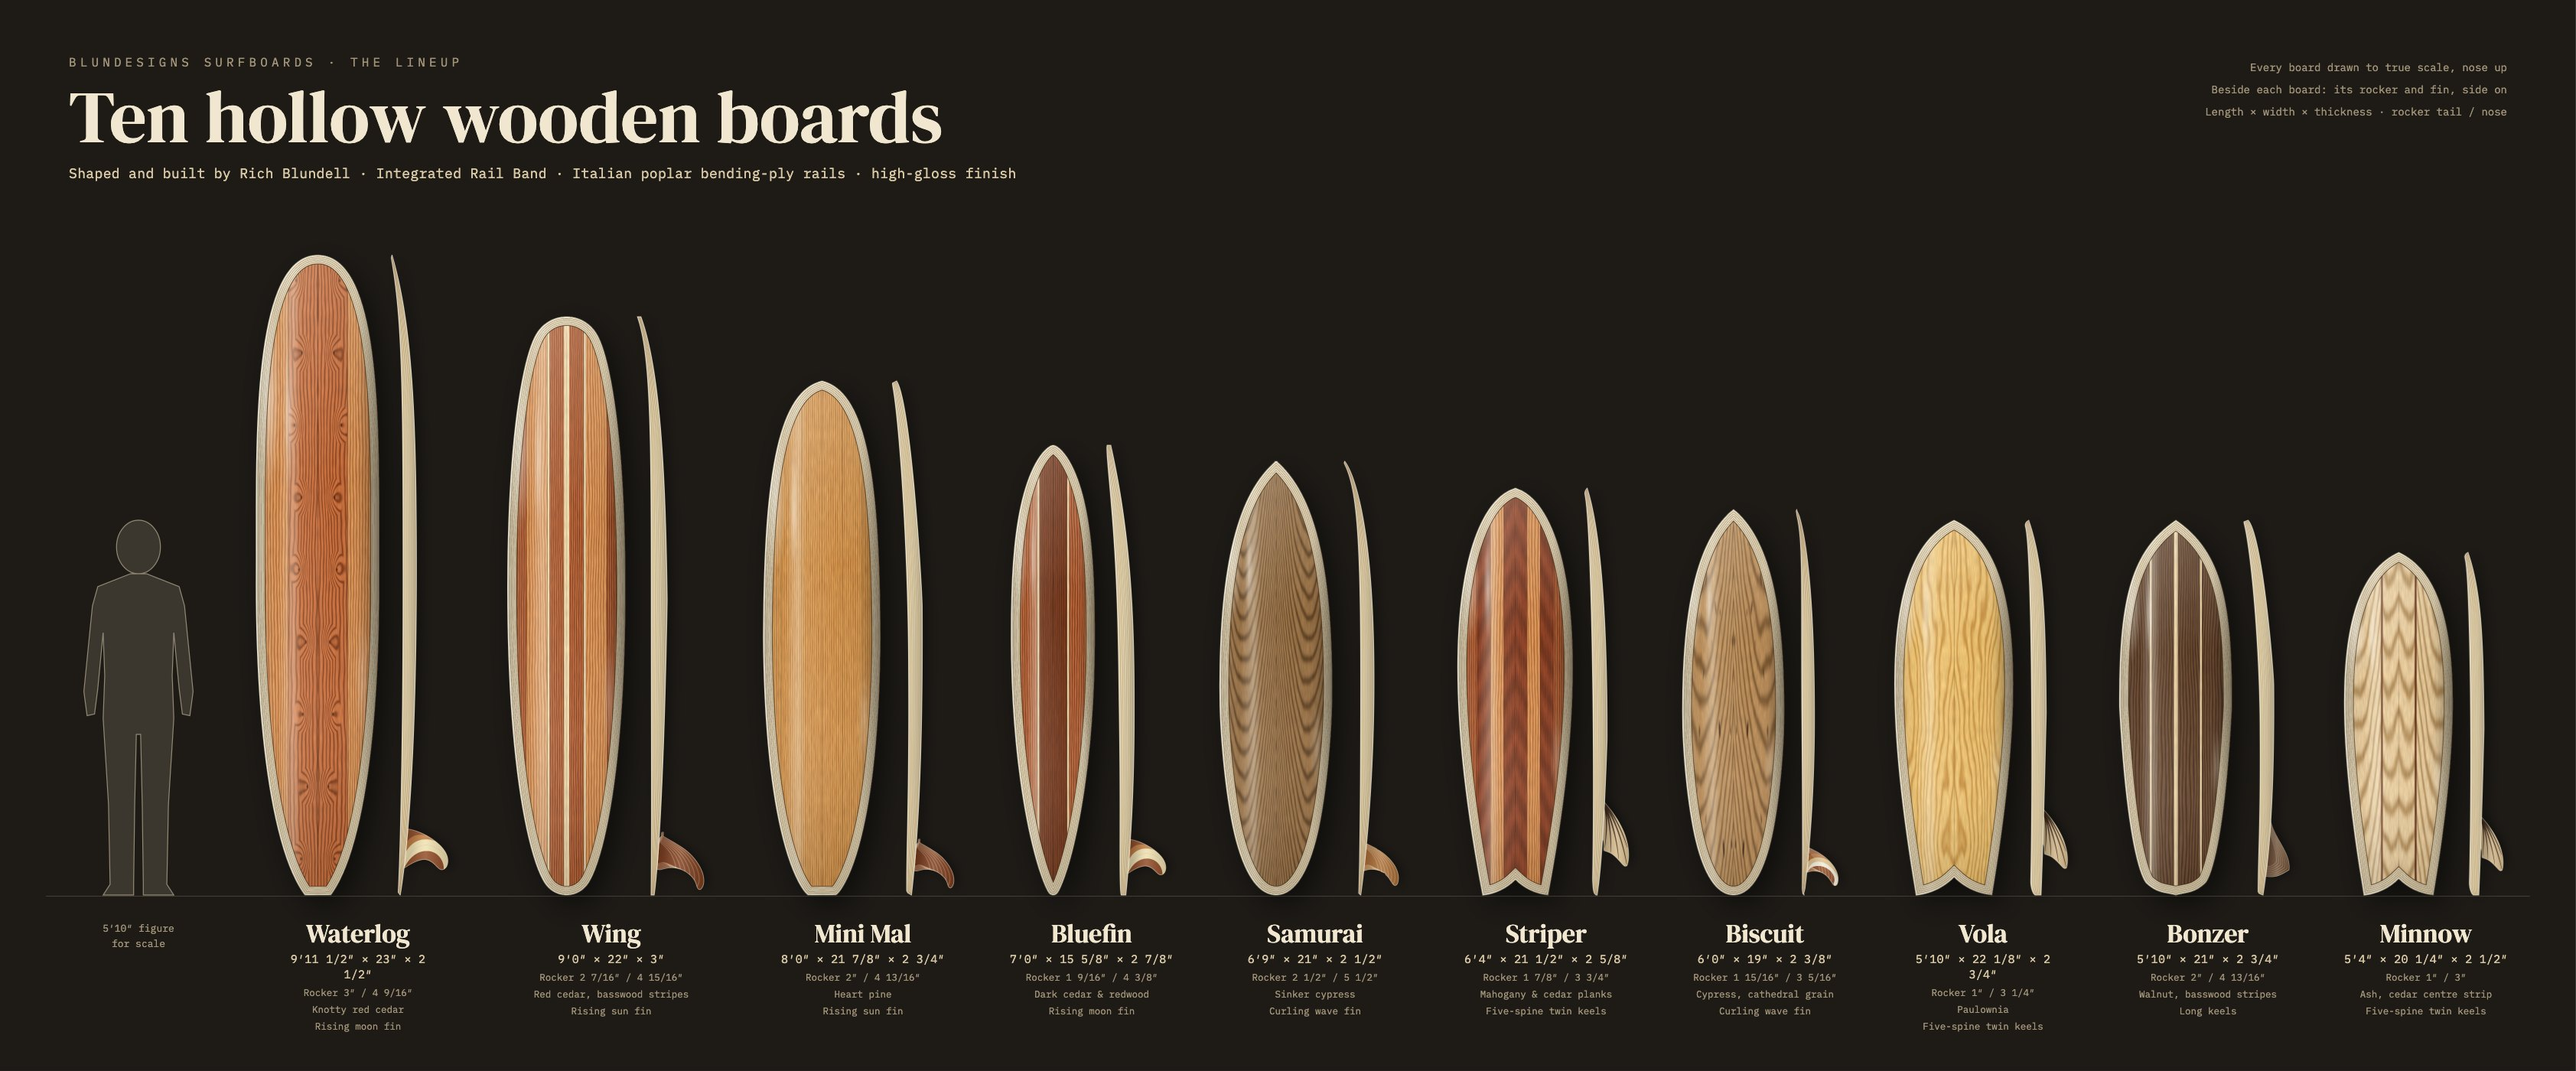
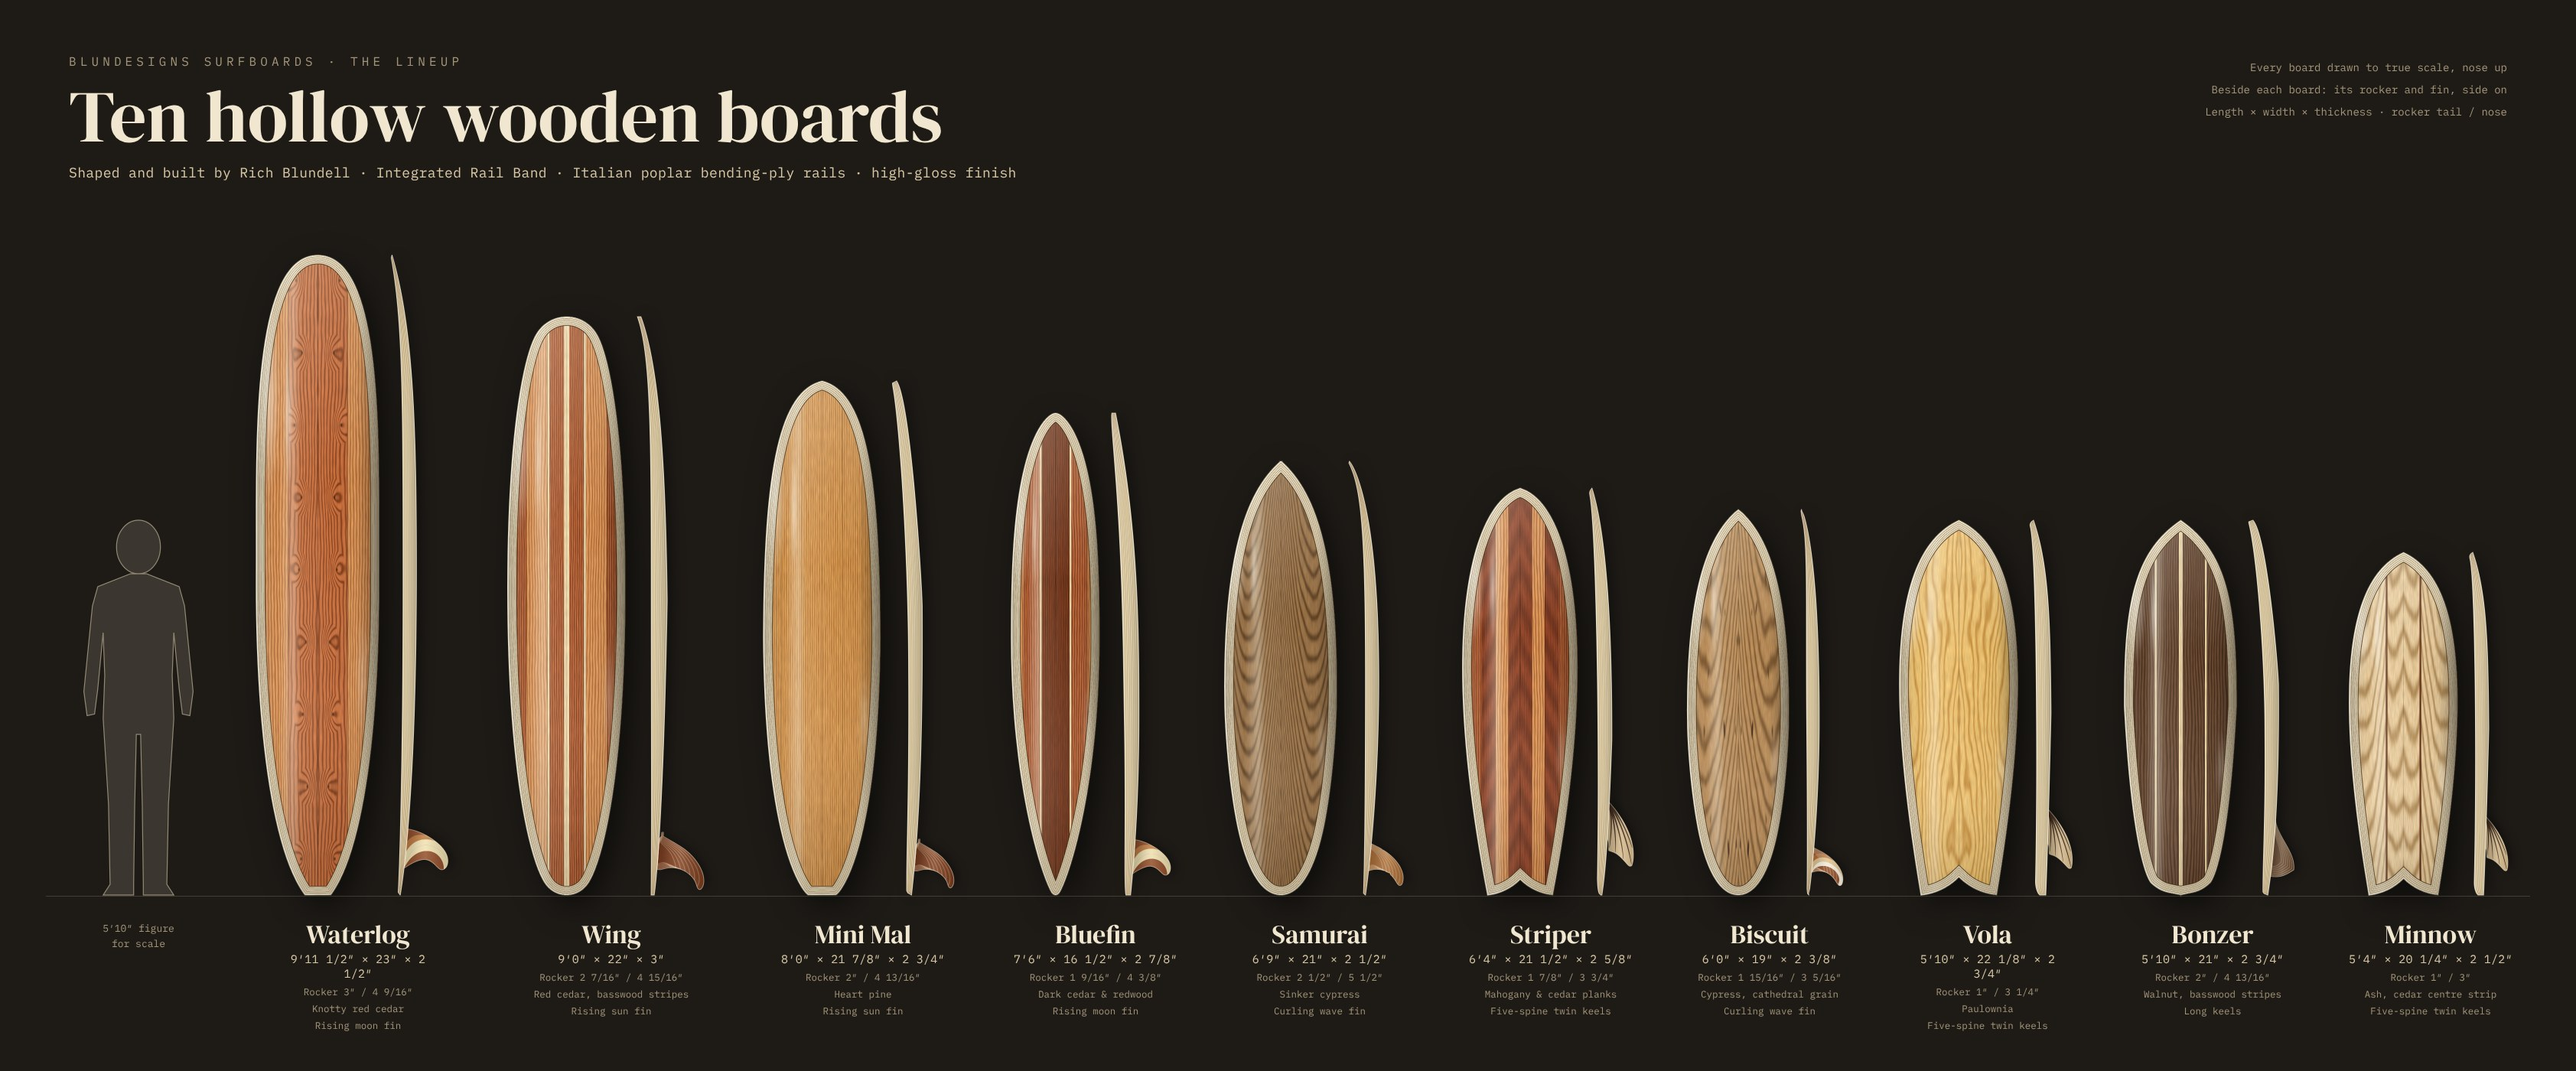
Designer page: Bluefin 7'6" in lineup graphic, new rare and figured wood photo
Claude-Session: https://claude.ai/code/session_01PAb2GxjydaHuBzQAZJj6oS

diff --git a/palmbeach/index.html b/palmbeach/index.html
@@ -252,7 +252,7 @@ footer nav a{color:var(--paper-dim)}
         </div>
       </article>
       <article class="wood">
-        <img src="img/grain.jpg" alt="Close up of glossy red cedar heartwood with dark knots and flame grain" loading="lazy">
+        <img src="img/grain.jpg" alt="Close up of glossy figured wood with tight dark growth rings glowing in low sun" loading="lazy">
         <div class="txt">
           <h3>Rare and figured woods</h3>
           <p>Old-growth heart pine, western and eastern red cedar, reclaimed barn boards and shipwreck planks. Each chosen for a grain pattern that cannot be repeated.</p>
